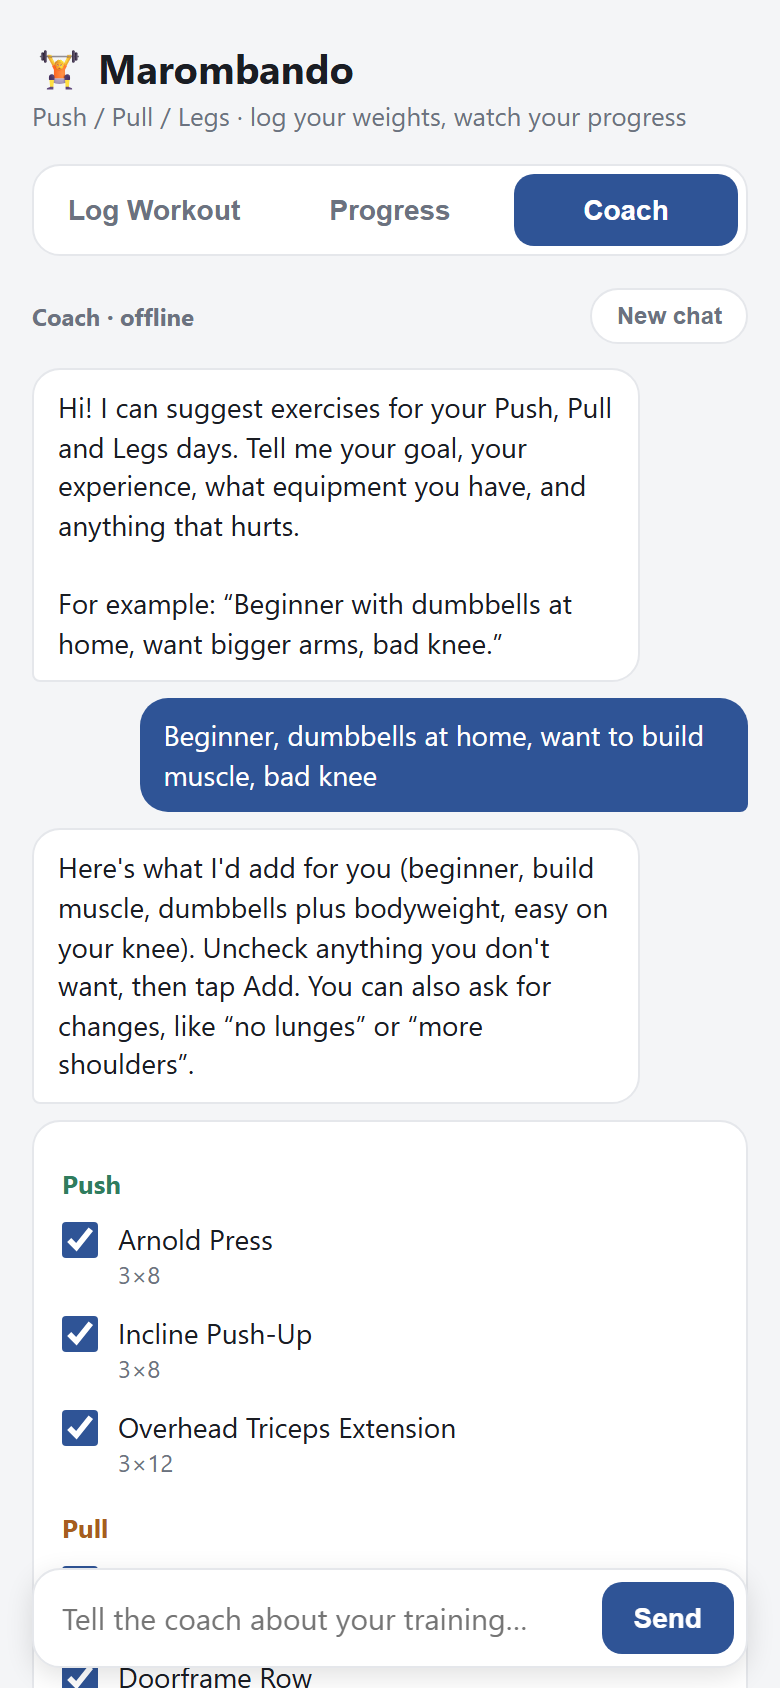
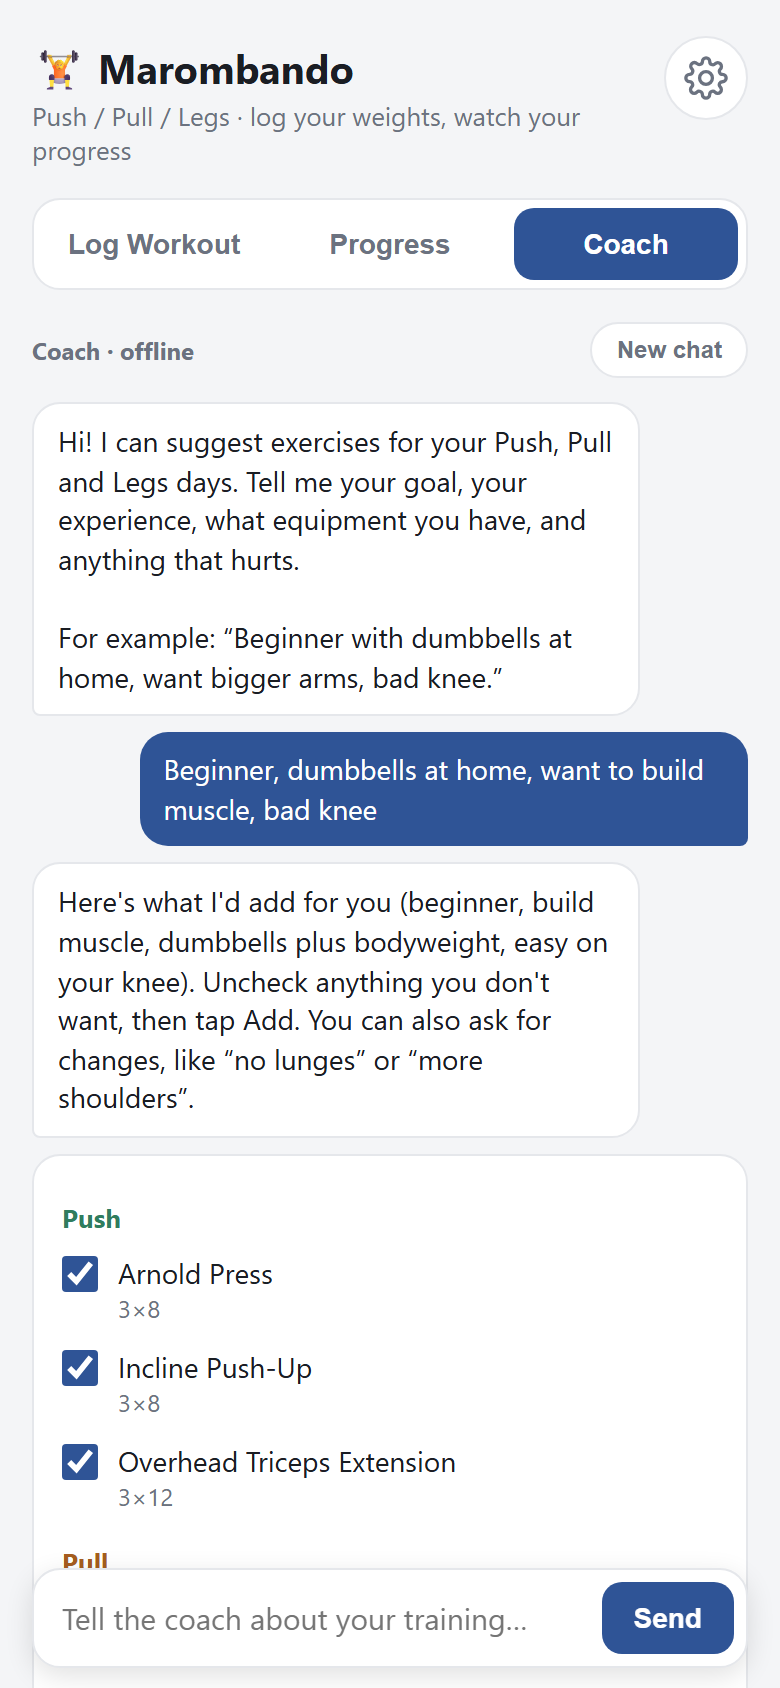
Refresh screenshots, add languages and units section

diff --git a/index.html b/index.html
@@ -36,11 +36,11 @@
           <span class="btn btn-dark" role="status">Coming soon to Google Play</span>
           <a class="btn btn-line" href="privacy.html">Read the privacy policy</a>
         </div>
-        <p class="fine">Works offline. No account needed to start.</p>
+        <p class="fine">Works offline. No account needed to start. Available in English, Français and Português.</p>
       </div>
       <div class="phones" aria-label="Screenshots of the app">
-        <div class="phone p1"><img src="assets/screen-progress.png" alt="Progress tab with a bench press chart rising from 115 to 150 pounds and a workout history" width="780" height="1688" loading="eager"></div>
-        <div class="phone p2"><img src="assets/screen-log.png" alt="Log Workout tab showing the last workout, a start button and exercise cards with weights and reps" width="780" height="1688" loading="eager"></div>
+        <div class="phone p1"><img src="assets/screen-progress.png" alt="Progress tab with a bench press chart rising from 115 to 150 pounds, and a workout history; a settings cog sits at the top right" width="780" height="1688" loading="eager"></div>
+        <div class="phone p2"><img src="assets/screen-log.png" alt="Log Workout tab showing the last workout, a start button, and exercise cards with weights and reps" width="780" height="1688" loading="eager"></div>
         <div class="phone p3"><img src="assets/screen-coach.png" alt="Coach tab suggesting a set of exercises as a checklist" width="780" height="1688" loading="eager"></div>
       </div>
     </div>
@@ -69,7 +69,7 @@
         <article class="card">
           <div class="ico" aria-hidden="true"><svg viewBox="0 0 24 24"><path d="M21 12a8 8 0 0 1-11.6 7.1L4 20l1-4.6A8 8 0 1 1 21 12z"/><path d="M9 11h6M9 14h4"/></svg></div>
           <h3>Offline coach</h3>
-          <p>Tell it your goal, experience, equipment and aches. It suggests exercises you can add with a tap. It works without internet.</p>
+          <p>Tell it your goal, experience, equipment and aches, in English, French or Portuguese. It suggests exercises you can add with a tap, and it works without internet.</p>
         </article>
         <article class="card">
           <div class="ico" aria-hidden="true"><svg viewBox="0 0 24 24"><path d="M20.8 5.6a5 5 0 0 0-7.1 0L12 7.3l-1.7-1.7a5 5 0 0 0-7.1 7.1L12 21.5l8.8-8.8a5 5 0 0 0 0-7.1z"/></svg></div>
@@ -82,6 +82,21 @@
           <p>Optional. Back up to a hidden folder in your own Google Drive and restore on a new phone. Nobody else can see it.</p>
         </article>
       </div>
+    </div>
+  </section>
+
+  <section id="languages">
+    <div class="wrap lang-grid">
+      <div>
+        <h2>Your language, your units</h2>
+        <p class="section-lead">Switch between English, Français and Português, and between kilograms and pounds, whenever you like from the Settings cog.</p>
+        <ul class="ticks">
+          <li>Every screen, message and exercise name is translated.</li>
+          <li>The offline coach understands all three languages.</li>
+          <li>Weights you already logged keep their unit and are converted when shown.</li>
+        </ul>
+      </div>
+      <div class="phone-single"><img src="assets/screen-settings-fr.png" alt="Settings screen in French, with language buttons for English, Français and Português and a kg or lb weight unit choice" width="780" height="1688" loading="lazy"></div>
     </div>
   </section>
 

diff --git a/style.css b/style.css
@@ -88,6 +88,15 @@ h2 { font-size: clamp(1.7rem, 3.2vw, 2.3rem); letter-spacing: -.02em; line-heigh
 .ico { width: 48px; height: 48px; border-radius: 14px; display: grid; place-items: center; background: linear-gradient(135deg, var(--accent-a), var(--accent-b)); }
 .ico svg { width: 26px; height: 26px; stroke: #fff; fill: none; stroke-width: 2; stroke-linecap: round; stroke-linejoin: round; }
 
+/* Language section */
+.lang-grid { display: grid; grid-template-columns: 1.2fr 1fr; gap: 40px; align-items: center; }
+.lang-grid .section-lead { margin-bottom: 18px; }
+.ticks { list-style: none; margin: 0; padding: 0; display: grid; gap: 10px; }
+.ticks li { position: relative; padding-left: 30px; color: var(--muted); }
+.ticks li::before { content: "✓"; position: absolute; left: 0; top: 0; font-weight: 800; color: var(--accent-b); }
+.phone-single { width: 250px; border: 9px solid #15171c; border-radius: 34px; overflow: hidden; background: #000; box-shadow: var(--shadow); margin-inline: auto; }
+.phone-single img { width: 100%; }
+
 /* Privacy band */
 .band { background: var(--soft); border-block: 1px solid var(--line); }
 .band .grid .card { box-shadow: none; }
@@ -120,6 +129,7 @@ h2 { font-size: clamp(1.7rem, 3.2vw, 2.3rem); letter-spacing: -.02em; line-heigh
   .hero .wrap { grid-template-columns: 1fr; text-align: left; }
   .phones { height: 500px; max-width: 520px; margin-inline: auto; width: 100%; }
   .grid { grid-template-columns: 1fr 1fr; }
+  .lang-grid { grid-template-columns: 1fr; }
 }
 @media (max-width: 600px) {
   body { font-size: 16px; }
